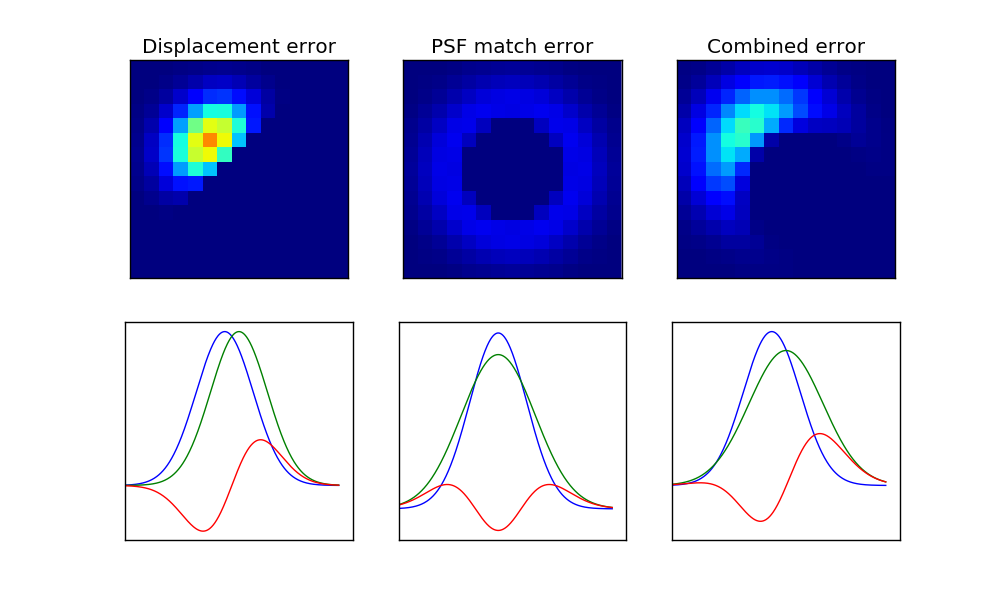
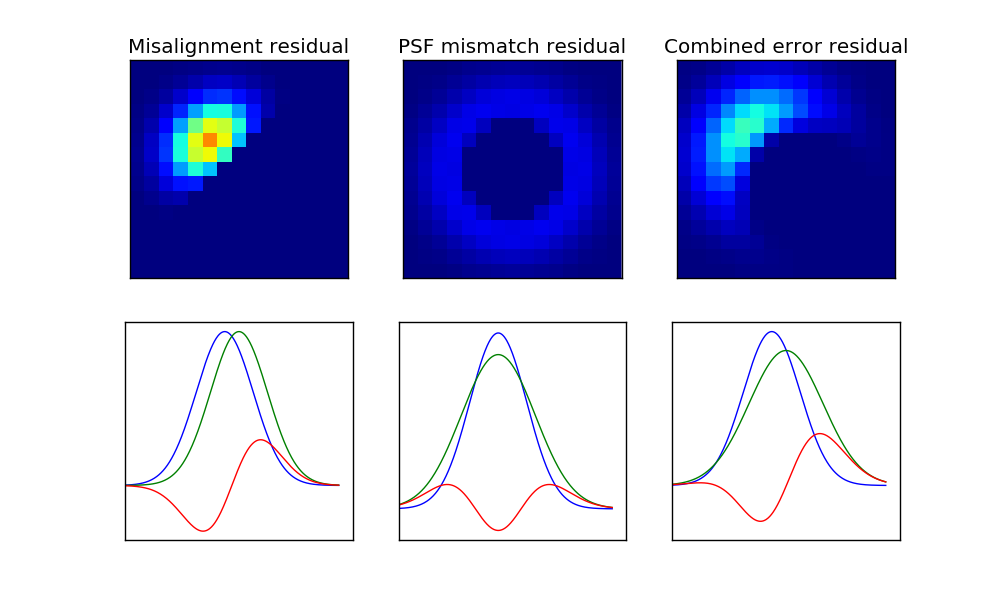
Added ML to main trunk

Changed region(s): [[0.651, 0.06, 0.93, 0.09], [0.403, 0.06, 0.62, 0.09], [0.124, 0.06, 0.341, 0.09]]

diff --git a/main.tex b/main.tex
@@ -952,7 +952,185 @@ Li \& Paczynski (1998, LP98) first showed that the radioactive ejecta from a NS-
 %			MACHINE LEARNING
 %
 %%%%%%%%%%%%%%%%%%%%%%%%%%%%%%%%%%%%%%%%%%%%%%%%%%%%%%%%%
-\include{chapter_ML/chapter}
+\chapter{Training a Classifier Agent}
+
+The subtraction techniques are very effective at  modeling PSF differences, nevertheless there are many defects left behind after a subtraction. This is also a well known issue in the difference image analysis. 
+The bogus residual sources arise primarily from PSF mismatch and mis-alignments of the images.
+Several examples of this kind are shown on figure \ref{fig:subtraction_errors}
+
+\begin{figure}
+\centering
+\includegraphics[scale=0.5]{figures/subtraction_error}
+\caption{Some examples of subtraction errors due to misalignment and wrong PSF matching.
+The top row shows typical morphology of residuals for different types of mimatches.
+The bottom row shows cross sections of the top row showing the object profiles in blue and green and the subtraction in red.
+First column corresponds to a displacement of the object with respect to the reference. 
+The second column represents objects with different PSF.
+The third column is the more typical kind of bogus residual, a combination of displacement and PSF mismatch.}
+\label{fig:subtraction_errors}
+\end{figure}
+
+These defects can easily confuse algorithms of source detection like SExtractor or similar that relies on excess of flux over the background. For that, it is needed to have a computerized agent capable of discriminating bogus sources from real transients on the subtracted image. 
+
+This is the task of a Machine Learning (ML) agent trained for that purpose. The real bogus classifier, as it is named in the literature relies on --usually morphological-- features to perform the classification.
+
+Machine Learning is such an extensive and intensive area of research with many applications in many fields.
+
+Since the ML field is so wide, to conduct a ML experiment one must make a few decisions. Even most importantly than the particular algorithm, 
+for which there are hundreds and modifications are being published all the time, it's the data that drives the efficiency of the method.
+
+As the saying goes:
+
+\begin{quotation}
+Big data will beat a good algorithm \textcolor{red}{Find exact quote and author}
+\end{quotation}
+
+For our main test, I decide to train a Random Forest ML algorithm on a training set developed especially for this.
+
+The Random Forest algorithm is an `ensemble' method. Meaning it is a collection of other methods whose results will be averaged over somehow.
+
+In this case, a Random Forest is an `ensemble' of Decision Trees. A Decision Tree is basically a tree of nodes. Each node represent a bifurcation based on one feature. The features and branching threshold on each node are chosen maximizing the expected information gain (or entropy loss) on the training set. That is, how well the bifurcation separates the training data for each class.
+
+Random Forest bootstraps the data so that each subset of data will train a Decision Tree on a random subset of the features. After all Decision Trees are trained this way, the collection of Trees will give the final classification.
+
+A single Decision Tree suffers of great variance, even for big amounts of data. The bifurcations on the greedy algorithm are naturally very dependent on the training set. A small variation on it may create a complete different tree. Random Forest reduces this variance by averaging over many trees. This also creates more realistic and fuzzy class boundaries on the feature space.
+
+On the next section I explain how the training data was prepared.
+
+\section{Training Data}
+
+The main challenge to generate training data is the great unbalance between bogus sources due to imperfect subtraction and actual real transients.
+
+On a typical image, the number of bogus sources can be of a hundred, and the rate of real transients can be only a handful. 
+
+The Machine Learning problem becomes one of `Information Retrieval'. We are mainly interested in only one class, the real transients, and we need to retrieve samples of that class from a sea of bogus transients.
+
+In a situation like that, a very unbalanced training set can bring about spurious results. As an example, imagine a training set with 90 bogus and 10 reals. The Zero Rule Classifier --that is the classifier that classifies everything as bogus-- would have a 90\% Precision and 100\% Recall for the bogus class. An unbalanced training set could also create classifiers with large variance due to the small set of real samples.
+
+`Recall' measures the fraction of samples of the relevant class that were retrieved by the classifier out of the total number of reals in the set.
+The class we are mainly interested in for the Recall is that of the real transient examples.
+
+To generate a balanced training set with comparable amounts of reals and bogus, I generate reals by selecting sources on an image and erasing them on the reference. That way, after a subtraction, those sources will appear as transient events, that is, objects in the image that don't have a corresponding object on the reference.
+
+The image set used for this purpose is CSTAR, but any other set will also perform similarly.
+
+The advantage of this method, compared to other methods like injecting fake sources, is that the `transients' obtained this way will have all the particular characteristics of the CCD and instrument from the image set in which we are interested to work. It will also have the characteristics of the subtraction method imperfections, but this is not exclusive to this method.
+
+The `bogus' set is also collected at the same time along with the `real' set.
+
+To have equal representation of sources of different magnitudes, the sources are first binned into 10 bins of \textcolor{red}{magnitude/flux?} and taken from different regions of the CCD.
+We partition the image in a 4 by 4 grid and we select one star from each region and we do so for each magnitude bin. \textcolor{red}{explain better!!!}
+
+\subsection{The CSTAR image-set preparation}
+
+The CSTAR image set is a high cadence set of images taken in the winter of 2010 in Antarctica, the South Pole. It comprises 6 months of data with an average cadence of \textcolor{red}{1 min ???? check}.
+
+Since the amount of data is so large, for the purpose of training, we created a subset of 626 images, with a cadence of about an hour during the best seeing month of June (May 31st to June 30th, 2010). The subset was named `cstar\_june\_selection'. The first 10 images of this set (named cstar\_june\_01) is used for training purposes and the rest can be used to search for transients. 
+
+The images are mostly clean, that is they were bias and flat corrected.
+Nevertheless, the images suffer from `bleeding' even though they have low exposure time. This bleeding is very significative for bright stars and less so for dimmer stars but still present nonetheless.
+
+The bled stars were covered with the median and a separate mask was created for the covered pixels for future reference. This pixel mask also includes defective pixels (dead lines and columns in the CCD).
+
+The date-time information on the header was also updated according to \textcolor{red}{[ref]}.
+
+For each of these images, we aligned a reference image with it using the package `astroalign' (see section astroalign) and also performed a image subtraction using the delta basis method on a 4 by 4 grid.
+
+\section{The Classifier}
+
+As previously said, we trained a Random Forest classifier based on 7,624 examples of fabricated transients (as described in section data) and 7,624 bogus picked at random from the subtraction images. This totals 15,248 samples for training and validation.
+
+The features used for this classifier were selected from the popular source extractor software SExtractor [Bertin ??]. We chose the features that had relation to the morphology of the source and some other features derived from them.
+The whole list is presented in table \ref{mlfeatures}.
+
+Several scores about the performance of the classifier on the training data are condensed in the scores table (\ref{mlscores}).
+
+\begin{table}
+\centering
+\begin{tabular}{|l| >{\itshape}l|}
+  \hline
+  x2 & Sum of the x squared values $\sum x^2 $ \\ \hline
+  y2 & Sum of the y squared values $\sum y^2 $\\ \hline
+  xy & Sum of the product of x and y values $\sum xy $\\ \hline
+  cxx, cyy, cxy & Same as x2, y2 and xy in the convolved image  \\ \hline
+  a, b, theta & semi-major axis, semi-minor axis and orientation of the best ellipse fit to the object \\ \hline
+  mag\_aper & Aperture magnitude of the object in the subtraction image \\ \hline     magerr\_aper & Error of mag\_aper \\ \hline
+  flux\_aper & Aperture flux in counts of the object in the subtraction image \\ \hline
+  fluxerr\_aper & Error of flux\_aper \\ \hline
+threshold & \\ \hline
+flux\_max & Maximum value of the flux \\ \hline
+fwhm & Full width at half maximum \\ \hline
+deltax & Width in pixels of the object (X\_MAX - X\_MIN) \\ \hline
+deltay & Height in pixels of the object (Y\_MAX - Y\_MIN) \\ \hline
+ratio & $\min$(deltax, deltay)/ $\max$(deltax,deltay,1) \\ \hline
+roundness & a/b\\ \hline
+peak\_centroid & Distance in pixels from the pixel with highest count to the centroid of the object \\ \hline
+\end{tabular}
+\caption{Random Forest Features}
+\label{mlfeatures}
+\end{table}
+
+\begin{table}
+\centering
+\begin{tabular}{| >{\itshape}l | l |}
+  \hline
+  accuracy & 0.9935 \\ \hline
+  precision & 0.9956 \\ \hline
+  recall & 0.9915 \\ \hline
+  F measure & 0.9936 \\ \hline
+\end{tabular}
+\caption{Random Forest Scores}
+\label{mlscores}
+\end{table}
+
+On the training data, the performance is quite good, with all indicators scoring above 99 percent.
+
+In the confusion matrix (table \ref{mlconfusionmatrix}) we see that only 65 out of 7,624 of the reals were mis-classified as bogus, and only 33 bogus out of the 7,624 were mis-classified as reals. These very low numbers explain the very high performance scores of the classifier.
+
+\begin{table}
+\centering
+\begin{tabular}{ l|c|c| }
+\multicolumn{1}{r}{}
+ &  \multicolumn{1}{c}{real}
+ & \multicolumn{1}{c}{bogus} \\
+\cline{2-3}
+{\it Classified as} real & 7591 & 33 \\
+\cline{2-3}
+{\it Classified as} bogus & 65 & 7559 \\
+\cline{2-3}
+\end{tabular}
+\caption{Confusion Matrix}
+\label{mlconfusionmatrix}
+\end{table}
+
+The ROC curve is presented in figure ??.
+
+\textcolor{red}{TO DO: Add analysis of feature importance}
+
+\section{Testing the classifier on real data}
+
+Once we have trained our classifier with training data, we wanted to also test it in a more real situation. For that we apply the classifier to the rest of the cstar\_june\_selection data set in search of actual transients of the image.
+
+The Random Forest classifier will not only predict the class, but can also output a probability for that class.
+
+Setting the probability to 0.9, the classifier returns the most likely transient events. The rate of real transient in the images is of about 15 per image for this probability threshold.
+
+Some examples of these are shown in figure ??.
+
+For very faint events or events that comprise very few pixels in the image, we can have additional filters that weed them out. Although, some of this could be of astronomical interest and discarding them could result in its loss.
+
+
+
+\begin{comment}
+	* Our test-drive with OIS + ML. Results of paper (hopefully)
+		* Test data we used (CSTAR)
+		* Processing our raw data (selecting images for a dataset, cleaning images, fixing headers, performing subtractions, identifying sources in subtractions, stamps)
+		* Getting samples for training (labeling data as RB, winnow, first run of ML)
+		* Feature exploration of data (SExtractor features, derived features, morphological features like Zernike, Chebyshev, Fourier, etc.)
+		* Random Forest + SMOTE + Cost Matrix (how well did this perform?)
+		* Is it reproducible in other data sets?
+\end{comment}
+
 
 
 
@@ -1106,7 +1284,7 @@ Despite the little area covered by TOROS, the O1 campaign allowed the collaborat
 \end{figure}
 
 
-\begin{figure}[!t]
+\begin{figure}
 \centering
 \includegraphics[scale=0.5]{figures/GW150914detection}
 \caption{GW150914 event observed by the LIGO Hanford (H1, left column panels) and Livingston (L1, right column panels) detectors. 

diff --git a/chapter_ML/chapter.tex b/chapter_ML/chapter.tex
@@ -1,6 +1,20 @@
 \chapter{Training a Classifier Agent}
 
-The subtraction techniques are very effective at  modeling PSF differences, nevertheless there are many defects left behind after a subtraction. This is also a well known issue in the difference image analysis. The fictitious (or bogus) sources arise primarily from PSF mismatch and mis-alignments of the images.
+The subtraction techniques are very effective at  modeling PSF differences, nevertheless there are many defects left behind after a subtraction. This is also a well known issue in the difference image analysis. 
+The bogus residual sources arise primarily from PSF mismatch and mis-alignments of the images.
+Several examples of this kind are shown on figure \ref{fig:subtraction_errors}
+
+\begin{figure}
+\centering
+\includegraphics[scale=0.5]{figures/subtraction_error}
+\caption{Some examples of subtraction errors due to misalignment and wrong PSF matching.
+The top row shows typical morphology of residuals for different types of mimatches.
+The bottom row shows cross sections of the top row showing the object profiles in blue and green and the subtraction in red.
+First column corresponds to a displacement of the object with respect to the reference. 
+The second column represents objects with different PSF.
+The third column is the more typical kind of bogus residual, a combination of displacement and PSF mismatch.}
+\label{fig:subtraction_errors}
+\end{figure}
 
 These defects can easily confuse algorithms of source detection like SExtractor or similar that relies on excess of flux over the background. For that, it is needed to have a computerized agent capable of discriminating bogus sources from real transients on the subtracted image. 
 
@@ -8,14 +22,14 @@ This is the task of a Machine Learning (ML) agent trained for that purpose. The 
 
 Machine Learning is such an extensive and intensive area of research with many applications in many fields.
 
-Since the ML field is so wide, to conduct a ML experiment one must make a few decisions. Even most importantly than the particular algorithm, for which there are hundreds and modifications are being published all the time, it's the data that drives the efficiency of the method.
+Since the ML field is so wide, to conduct a ML experiment one must make a few decisions. Even most importantly than the particular algorithm, 
+for which there are hundreds and modifications are being published all the time, it's the data that drives the efficiency of the method.
 
 As the saying goes:
 
 \begin{quotation}
 Big data will beat a good algorithm \textcolor{red}{Find exact quote and author}
 \end{quotation}
-
 
 For our main test, I decide to train a Random Forest ML algorithm on a training set developed especially for this.
 
